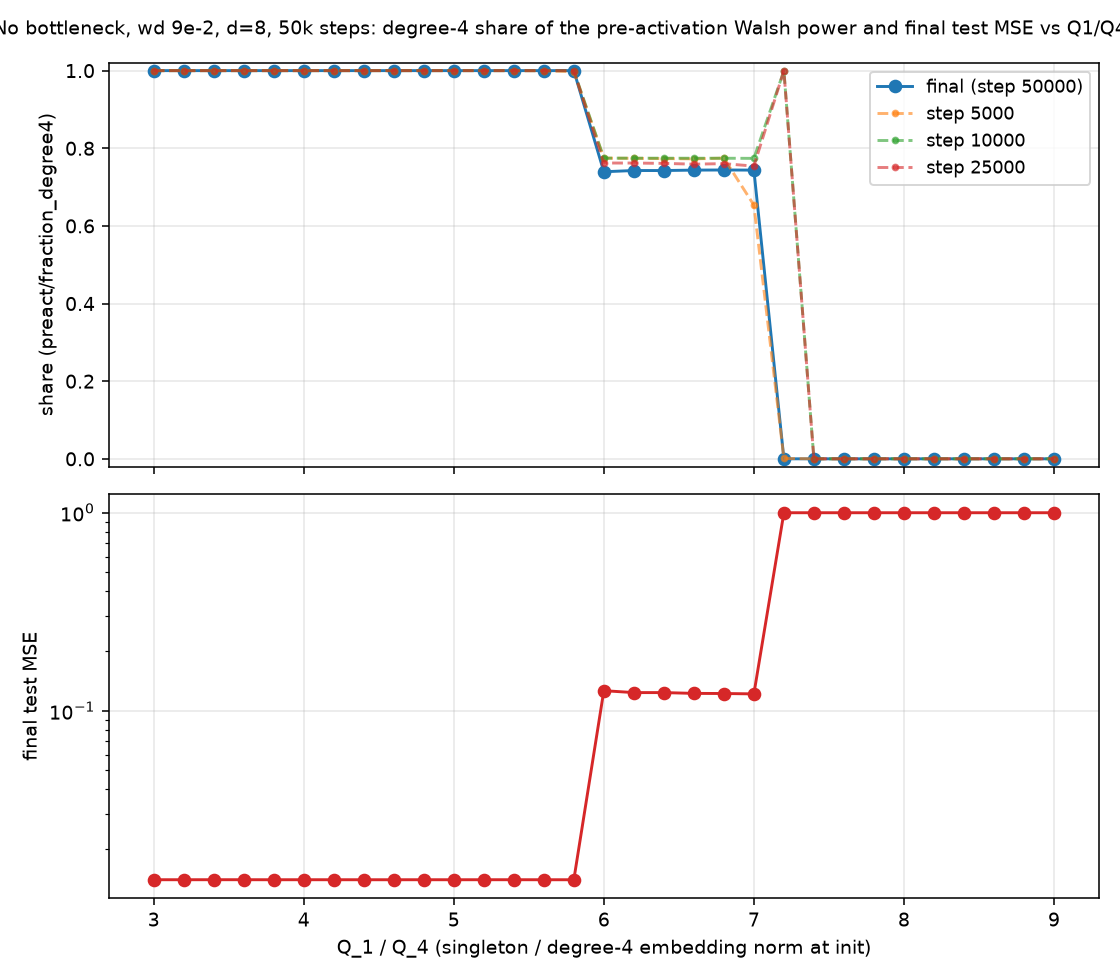
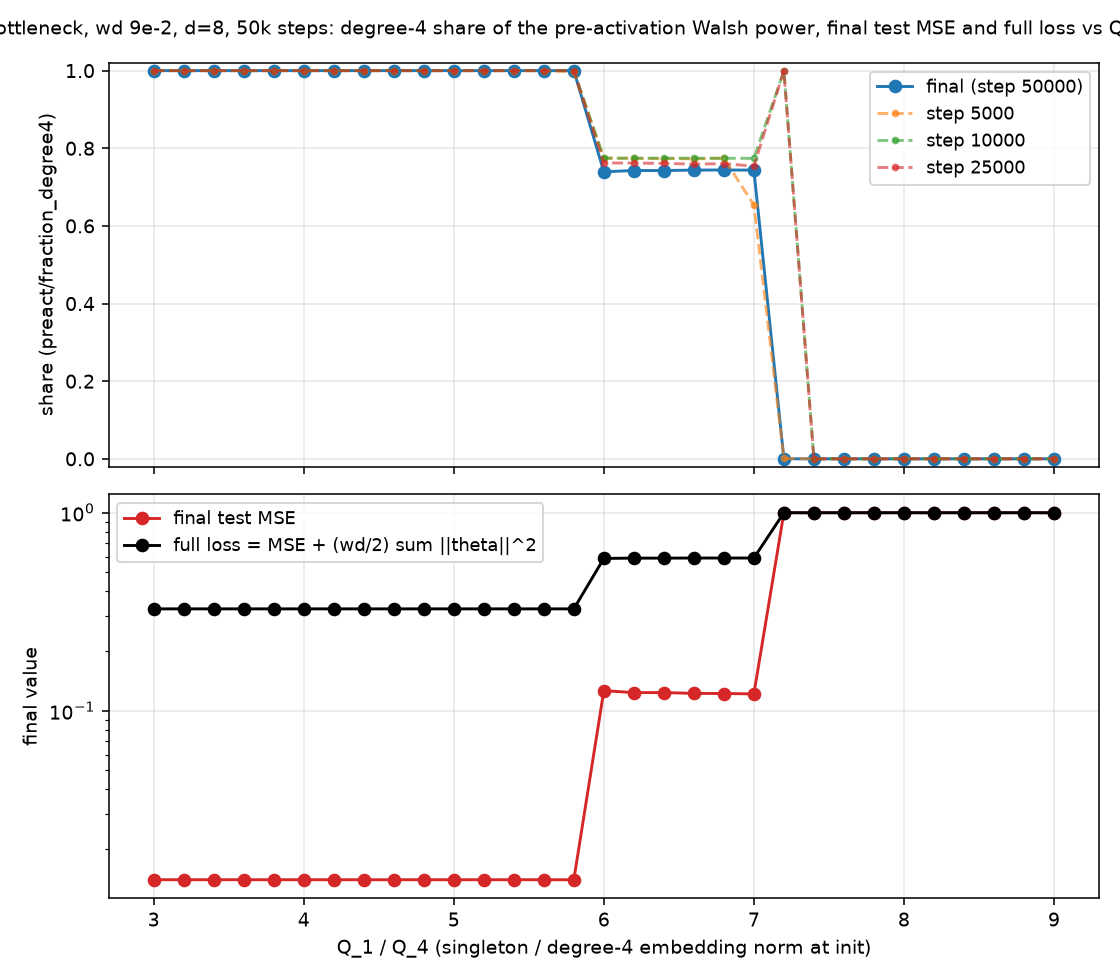
plot_q_sweep: --full-loss adds MSE + (wd/2) sum ||theta||^2 to the lower panel; wd 9e-2 figure regenerated

diff --git a/experiments/rank1_bottleneck/plot_q_sweep.py b/experiments/rank1_bottleneck/plot_q_sweep.py
@@ -17,6 +17,28 @@ import matplotlib.pyplot as plt
 import pandas as pd
 
 
+def full_loss(run_dir: Path) -> float:
+    """MSE on all 2^d inputs + (wd/2) * sum ||theta||^2 over the parameters the forward pass uses,
+    from checkpoints/final.pt (the objective SGD with weight_decay descends)."""
+    import itertools
+    import torch
+    import torch.nn.functional as F
+    from .config import Rank1Config
+    from .model import Rank1BottleneckNet
+    ckpt = torch.load(run_dir / "checkpoints" / "final.pt", map_location="cpu", weights_only=False)
+    cfg = Rank1Config(**ckpt["config"])
+    model = Rank1BottleneckNet(cfg)
+    model.load_state_dict(ckpt["model_state"])
+    x = torch.tensor(list(itertools.product([-1.0, 1.0], repeat=cfg.d)))
+    with torch.no_grad():
+        mse = float(F.mse_loss(model(x), x.prod(1)))
+        used = [model.embedding, model.linear.weight, model.readout.weight]
+        if cfg.use_bottleneck:
+            used += [model.W_enc, model.W_dec]
+        sq = sum(float((p ** 2).sum()) for p in used)
+    return mse + 0.5 * cfg.weight_decay * sq
+
+
 def main() -> None:
     ap = argparse.ArgumentParser()
     ap.add_argument("--runs-root", default="runs")
@@ -27,6 +49,7 @@ def main() -> None:
                     help="column to plot as the degree-2 share (e.g. preact/fraction_degree2)")
     ap.add_argument("--title", default=None)
     ap.add_argument("--suffix", default="", help="run-name suffix after the Q value, e.g. _50k")
+    ap.add_argument("--full-loss", action="store_true", help="also plot MSE + (wd/2) sum ||theta||^2 from final.pt")
     ap.add_argument("--xlabel", default="Q_1 / Q_2 (singleton / pair embedding norm at init)")
     args = ap.parse_args()
     rows = []
@@ -41,6 +64,8 @@ def main() -> None:
         for s in args.steps:
             sub = m[m.step == s]
             row[f"share2_{s}"] = float(sub[args.metric].iloc[0]) if len(sub) else float("nan")
+        if args.full_loss:
+            row["full_loss"] = full_loss(d)
         rows.append(row)
     df = pd.DataFrame(rows).sort_values("Q")
     df.to_csv(Path(args.out).with_suffix(".csv"), index=False)
@@ -51,7 +76,11 @@ def main() -> None:
         ax.plot(df.Q, df[f"share2_{s}"], ".--", alpha=0.6, label=f"step {s}")
     ax.set_ylabel(f"share ({args.metric})"); ax.set_ylim(-0.02, 1.02); ax.grid(alpha=0.3); ax.legend(fontsize=9)
     ax = axes[1]
-    ax.semilogy(df.Q, df.test_mse, "o-", color="C3"); ax.set_ylabel("final test MSE"); ax.set_xlabel(args.xlabel); ax.grid(alpha=0.3)
+    ax.semilogy(df.Q, df.test_mse, "o-", color="C3", label="final test MSE")
+    if args.full_loss:
+        ax.semilogy(df.Q, df.full_loss, "o-", color="k", label="full loss = MSE + (wd/2) sum ||theta||^2")
+        ax.legend(fontsize=9)
+    ax.set_ylabel("final value" if args.full_loss else "final test MSE"); ax.set_xlabel(args.xlabel); ax.grid(alpha=0.3)
     fig.suptitle(args.title or f"{args.prefix}: d4 target from x1..x4 + x1x2, x3x4", fontsize=10)
     fig.tight_layout(); fig.savefig(args.out, dpi=140); print(args.out)
     print(df.to_string(index=False, float_format=lambda v: f"{v:.3g}"))
